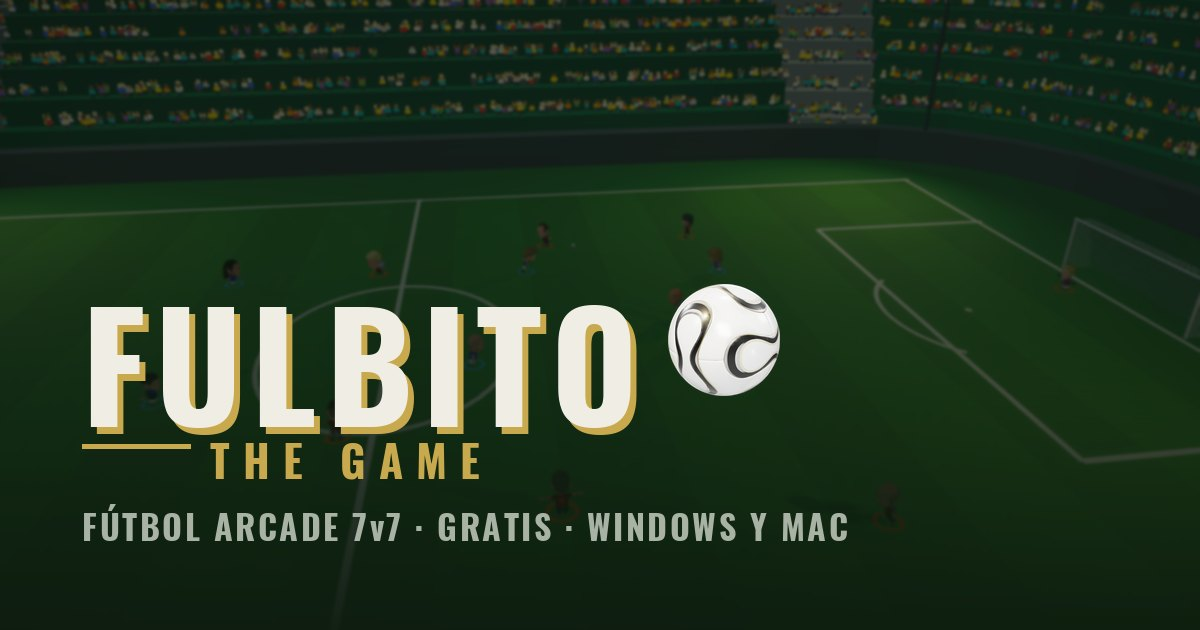
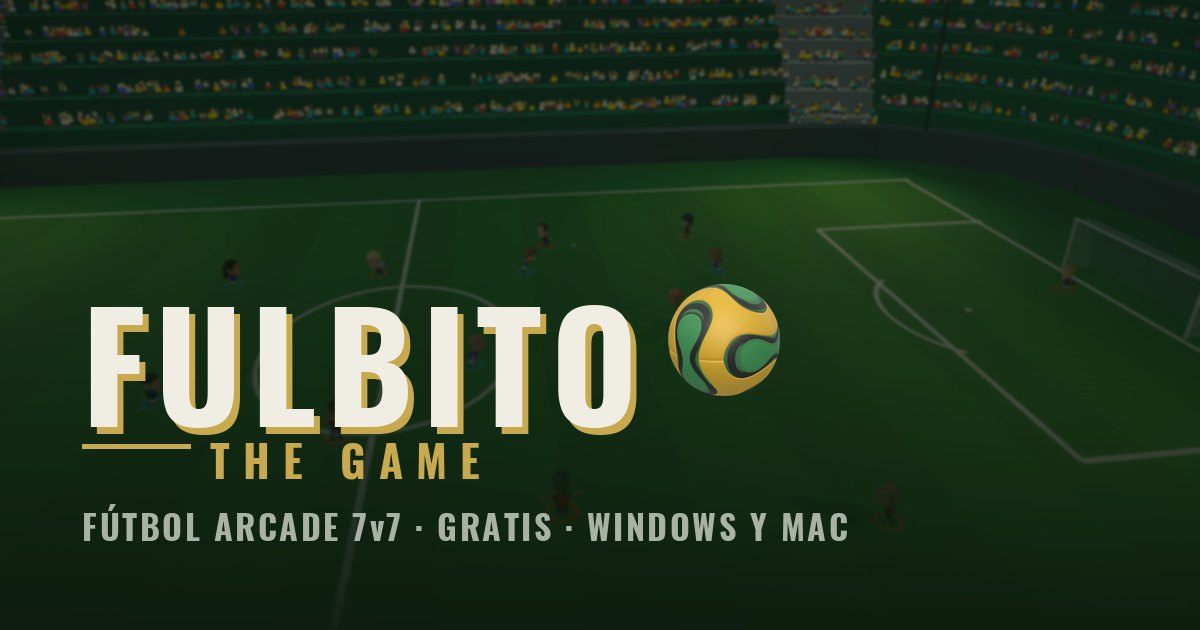
La pelota dorada de la final, con los colores medidos del juego
Rodrigo pidio probar la pelota de la final de la Copa (M106) en el hero, y
la iteracion completa quedo asi:
- los tintes del juego (Pelota.Oro/Verde) NO alcanzaban: el color final en
  Unity es tinte x textura x luz toon, y la web tiene otra textura y otra
  luz. Los colores se SAMPLEARON de una captura in-game (#AC8811 / #27713D).
- el ACES tone mapping lavaba cualquier tinte (esta calibrado p/ la pelota
  blanca): mientras la pelota va tintada, se apaga.
- "mas opaca": el GLB trae clearcoat (MeshPhysicalMaterial) y ese barniz no
  lo baja roughness — clearcoat=0, metalness=0, envmap 0.12, y una ambiente
  fuerte con direccional suave p/ el toque de volumen que pidio Rodrigo.
- el render estatico (pelota.webp: fallback del hero, marcador, footer y
  og-image) se regenero con la MISMA receta en tools/render3d.
- import con ?v=2: versionado de cache del modulo — al cambiar la pelota,
  subirlo.

Changed region(s): [[0.555, 0.4524, 0.6475, 0.6333]]

diff --git a/tools/render3d/index.html b/tools/render3d/index.html
@@ -41,7 +41,7 @@
 import {
   WebGLRenderer, PerspectiveCamera, Scene, Group,
   DirectionalLight, AmbientLight, PMREMGenerator, Box3, Vector3,
-  ACESFilmicToneMapping,
+  NoToneMapping, Color,
 } from 'three';
 import { GLTFLoader } from '../../vendor/jsm/loaders/GLTFLoader.js';
 import { MeshoptDecoder } from '../../vendor/jsm/libs/meshopt_decoder.module.js';
@@ -53,8 +53,9 @@ const estado = document.getElementById('estado');
 const renderer = new WebGLRenderer({ alpha: true, antialias: true, preserveDrawingBuffer: true });
 renderer.setPixelRatio(2);
 renderer.setSize(LADO, LADO, false);
-renderer.toneMapping = ACESFilmicToneMapping;
-renderer.toneMappingExposure = 1.18;
+/* SIN tone mapping: la pelota va con los colores MEDIDOS del juego (la dorada
+   de la final, M106) y el ACES los lavaba — misma decisión que en pelota3d.js */
+renderer.toneMapping = NoToneMapping;
 const lienzo = renderer.domElement;
 lienzo.style.width = lienzo.style.height = LADO + 'px';
 document.getElementById('caja').appendChild(lienzo);
@@ -71,13 +72,13 @@ escena.environment = pmrem.fromScene(new RoomEnvironment(), 0.04).texture;
 // Luz principal DORADA desde arriba a la izquierda: ata la pelota a la paleta
 // del sitio sin repintar el modelo. Relleno frío tenue del otro lado para que
 // el lado en sombra no se coma el dibujo de los paneles.
-const clave = new DirectionalLight(0xF2DFA6, 2.6);
+const clave = new DirectionalLight(0xF2DFA6, 0.55);
 clave.position.set(-2.4, 3.0, 2.2);
 escena.add(clave);
-const relleno = new DirectionalLight(0x8FA98C, 0.55);
+const relleno = new DirectionalLight(0x8FA98C, 0.2);
 relleno.position.set(2.6, -1.2, 1.4);
 escena.add(relleno);
-escena.add(new AmbientLight(0xF0EDE4, 0.35));
+escena.add(new AmbientLight(0xF0EDE4, 0.78));
 
 const pelota = new Group();
 escena.add(pelota);
@@ -92,10 +93,24 @@ cargador.load('../../assets/ball/teamgeist.glb', (gltf) => {
   const radio = caja.getSize(new Vector3()).length() / (2 * Math.sqrt(3));
   modelo.position.sub(centro);
   modelo.scale.setScalar(1 / radio);
+  // los colores sampleados de una captura in-game de la final (pelota M106):
+  // cuerpo #AC8811, paneles ovalados #27713D — la MISMA receta que pelota3d.js
+  const PLANOS = { Ball_Triangles: 0xac8811, Ball_Ovals: 0x27713d };
   modelo.traverse((o) => {
     if (o.isMesh && o.material) {
-      o.material.envMapIntensity = 1.15;
       if (o.material.map) o.material.map.anisotropy = 8;
+      const hex = PLANOS[o.material.name];
+      if (hex !== undefined) {
+        o.material.color = new Color(hex);
+        o.material.roughness = 0.72;
+        o.material.metalness = 0;
+        o.material.envMapIntensity = 0.12;
+        // el GLB trae BARNIZ (clearcoat) y ese lustre no lo baja `roughness`:
+        // era lo que dejaba los chorros de brillo blanco en el render
+        if ('clearcoat' in o.material) o.material.clearcoat = 0;
+        window.MAT_INFO = (window.MAT_INFO || []).concat(
+          `${o.material.name}: ${o.material.type} clearcoat=${o.material.clearcoat}`);
+      }
     }
   });
   pelota.add(modelo);

diff --git a/js/pelota3d.js b/js/pelota3d.js
@@ -12,7 +12,7 @@
 import {
   WebGLRenderer, PerspectiveCamera, Scene, Group,
   DirectionalLight, AmbientLight, PMREMGenerator, Box3, Vector3,
-  ACESFilmicToneMapping,
+  ACESFilmicToneMapping, NoToneMapping, Color,
 } from 'three';
 import { GLTFLoader } from '../vendor/jsm/loaders/GLTFLoader.js';
 import { MeshoptDecoder } from '../vendor/jsm/libs/meshopt_decoder.module.js';
@@ -146,10 +146,38 @@ export async function montarPelota3D(caja, imagen, titulo) {
   const radio = bb.getSize(new Vector3()).length() / (2 * Math.sqrt(3));
   modelo.position.sub(bb.getCenter(new Vector3()));
   modelo.scale.setScalar(1 / radio);
+  /* PRUEBA (no publicar sin OK de Rodrigo): la pelota dorada de la final de la
+     Copa (M106), con los tintes de Pelota.Oro / Pelota.Verde del juego. El
+     mecanismo es el mismo de Unity (el tinte MULTIPLICA la textura), pero la
+     luz de este hero está calibrada para la pelota BLANCA y lavaba el color:
+     acá el tinte va pre-saturado y con menos reflejo de entorno, y la clave
+     dorada baja un punto — sólo mientras la pelota va tintada. */
+  /* La pelota de la final, con los COLORES MEDIDOS del juego: los hex salen de
+     samplear una captura in-game (cuerpo 172,135,17 · paneles 39,113,61), no
+     de los tintes — el color final en Unity es tinte × textura × luz toon y
+     acá esa cadena no existe. Material UNLIT (MeshBasicMaterial): ni ACES, ni
+     especular, ni sombreado — plano y opaco como lo pinta el juego. El hex se
+     pasa por Color() para que three lo tome como sRGB y no lo aclare. */
+  renderer.toneMapping = NoToneMapping;
+  const PLANOS = { Ball_Triangles: 0xac8811, Ball_Ovals: 0x27713d };
+  /* luz suave: la ambiente sostiene el color medido tal cual y la direccional
+     agrega el poquito de volumen y brillo que pidio Rodrigo ("muy plana") —
+     en el tono medio sigue estando el color sampleado del juego */
+  clave.intensity = 0.55;
+  relleno.intensity = 0.2;
+  escena.children.forEach((l) => { if (l.isAmbientLight) l.intensity = 0.78; });
   modelo.traverse((o) => {
     if (o.isMesh && o.material) {
-      o.material.envMapIntensity = 1.15;
-      if (o.material.map) o.material.map.anisotropy = 8;
+      const hex = PLANOS[o.material.name];
+      if (hex !== undefined) {
+        if (o.material.map) o.material.map.anisotropy = 8;
+        o.material.color = new Color(hex);
+        o.material.roughness = 0.72;
+        o.material.metalness = 0;
+        o.material.envMapIntensity = 0.12;
+        // el GLB trae BARNIZ (clearcoat): su lustre no lo baja `roughness`
+        if ('clearcoat' in o.material) o.material.clearcoat = 0;
+      }
     }
   });
   pelota.add(modelo);

diff --git a/js/main.js b/js/main.js
@@ -152,7 +152,9 @@ function pelota3DConviene() {
 function cargarPelota3D() {
   const caja = document.getElementById('pelota3d');
   if (!caja || !pelota3DConviene()) return;
-  import('./pelota3d.js')
+  // v2 = la pelota dorada de la final (los colores medidos del juego). El
+  // parámetro es sólo versionado de caché: al cambiar la pelota, subirlo.
+  import('./pelota3d.js?v=2')
     .then((m) => m.montarPelota3D(caja, caja.querySelector('img'),
                                   document.querySelector('.wordmark__texto')))
     .catch((e) => console.info('[pelota3d] queda la imagen:', e.message));
